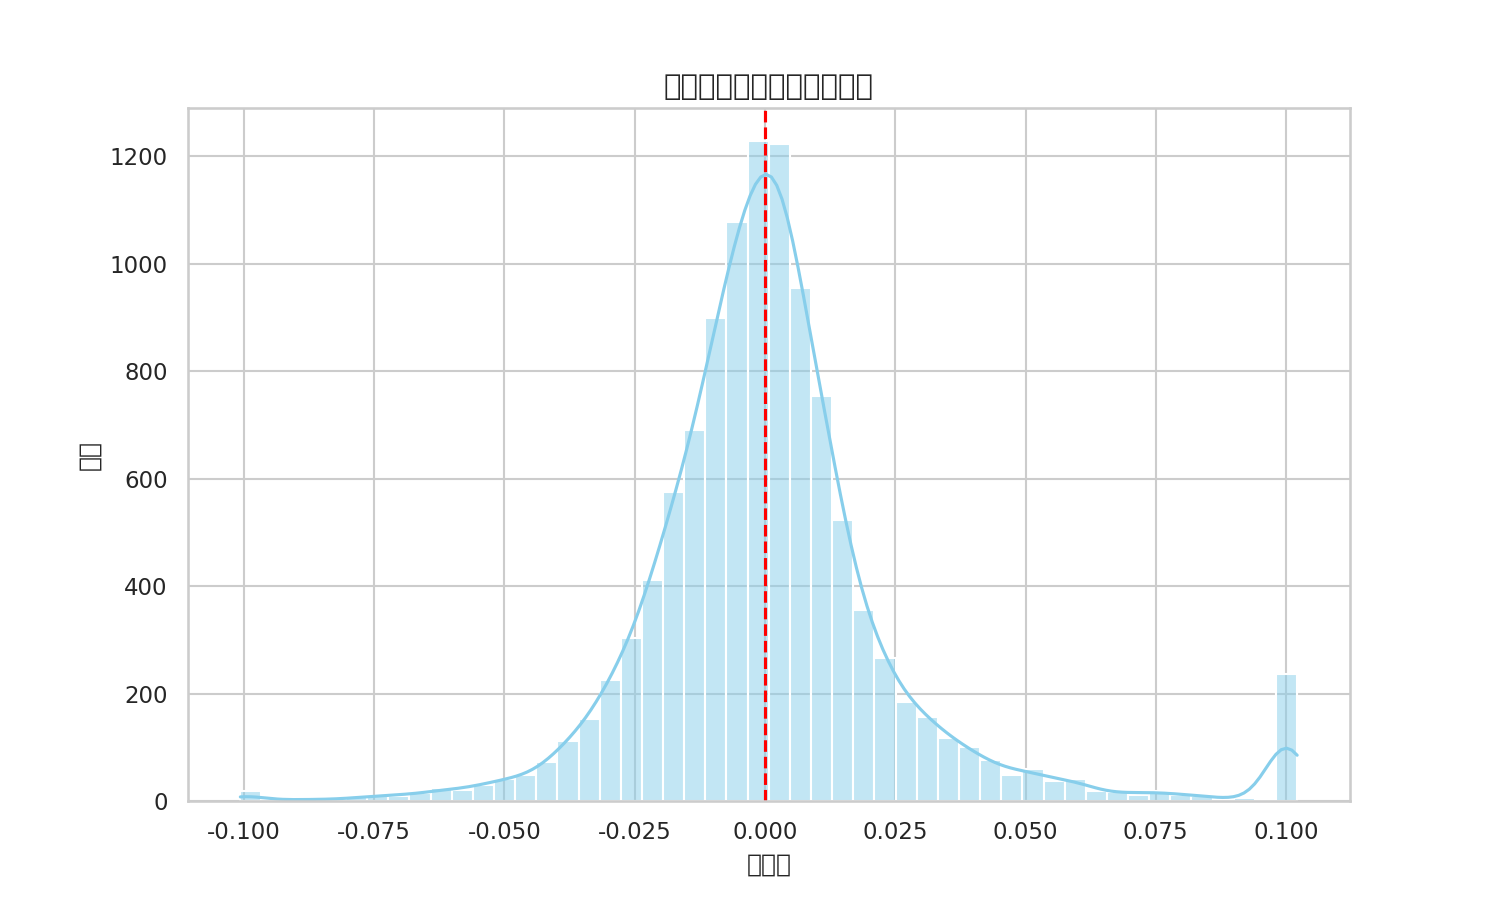
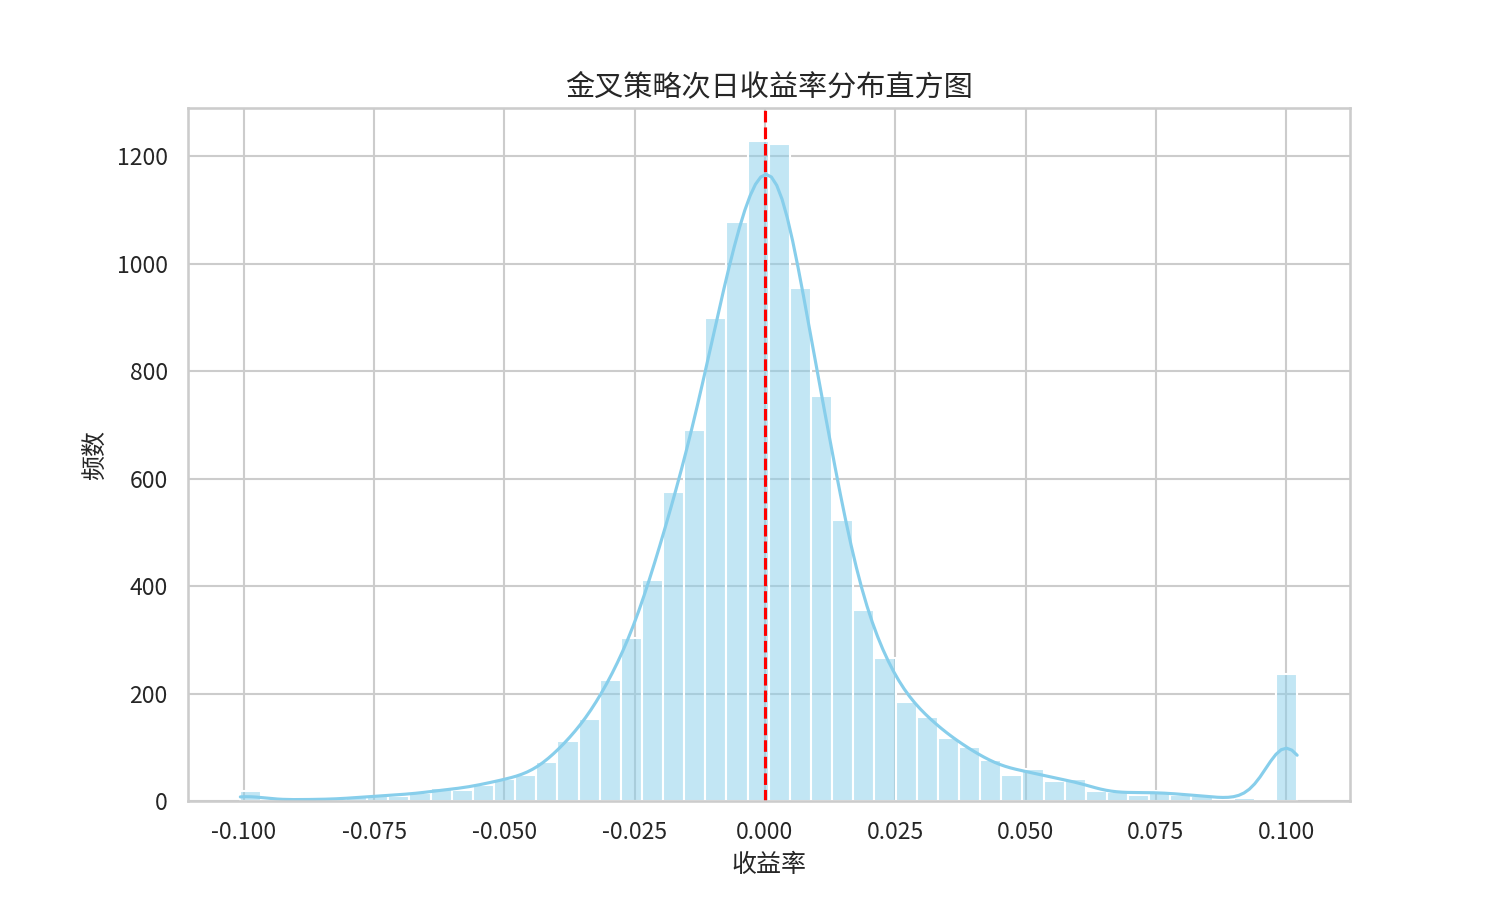
Final Polish: Fix missing return distribution charts in Q2/Q3 and integrate them into reports with detailed explanations

diff --git a/Q3问题三/Q3_Analysis_Final.py b/Q3问题三/Q3_Analysis_Final.py
@@ -15,7 +15,7 @@ sns.set_theme(style="whitegrid", font='Noto Sans CJK SC')
 data_dir = "/mnt/desktop/swufe_mcm/数据"
 files = ["TRD_Dalyr.xlsx"]
 
-print("正在加载数据 (Q3 Final)...")
+print("正在加载数据 (Q3 Final Fix)...")
 df_list = []
 for f in files:
     path = os.path.join(data_dir, f)
@@ -60,7 +60,16 @@ gv_events = df[df['Golden_Valley'] == 1].copy()
 gv_events = gv_events.dropna(subset=['Ret_10d'])
 
 if not gv_events.empty:
-    # A. 生存分析
+    # A. 修复 return_10d_dist.png (直方图)
+    plt.figure(figsize=(10, 6))
+    sns.histplot(gv_events['Ret_10d'], bins=50, kde=True, color='salmon')
+    plt.axvline(0, color='red', linestyle='--')
+    plt.title('金山谷形态 10 日累积收益率分布直方图', fontsize=14)
+    plt.xlabel('10日累积收益率')
+    plt.ylabel('频数')
+    plt.savefig("/mnt/desktop/swufe_mcm/Q3问题三/return_10d_dist.png", dpi=150)
+
+    # B. 生存分析
     path_cols = [f'Ret_{i}d' for i in range(1, 11)]
     path_data = gv_events[path_cols].values
     durations = []
@@ -85,7 +94,7 @@ if not gv_events.empty:
     plt.tight_layout()
     plt.savefig("/mnt/desktop/swufe_mcm/Q3问题三/survival_analysis.png", dpi=150)
     
-    # B. K线案例可视化
+    # C. K线案例可视化
     sample_stk = gv_events.iloc[0]['Stkcd']
     sample_date = gv_events.iloc[0]['Trddt']
     case_df = df[df['Stkcd'] == sample_stk].copy()
@@ -108,7 +117,7 @@ if not gv_events.empty:
              title=f"Stock {sample_stk} Golden Valley Case", 
              savefig="/mnt/desktop/swufe_mcm/Q3问题三/kline_case.png")
 
-    # C. 保存 4 位精度结果
+    # D. 保存 4 位精度结果
     up_prob = (gv_events['Ret_10d'] > 0).mean()
     mean_ret = gv_events['Ret_10d'].mean()
     res_summary = pd.DataFrame({
@@ -116,4 +125,4 @@ if not gv_events.empty:
         'Value': [len(gv_events), round(up_prob, 4), round(mean_ret, 4), round(gv_events['Ret_10d'].median(), 4), round(gv_events['Ret_10d'].std(), 4)]
     })
     res_summary.to_csv("/mnt/desktop/swufe_mcm/Q3问题三/q3_summary_final.csv", index=False)
-    print("Q3 Final 分析完成。")
+    print("Q3 Final Fix 分析完成。")

diff --git a/Q2问题二/Q2_Analysis_Final.py b/Q2问题二/Q2_Analysis_Final.py
@@ -13,7 +13,7 @@ sns.set_theme(style="whitegrid", font='Noto Sans CJK SC')
 data_dir = "/mnt/desktop/swufe_mcm/数据"
 files = ["TRD_Dalyr.xlsx"]
 
-print("正在加载数据 (Q2 Final)...")
+print("正在加载数据 (Q2 Final Fix)...")
 df_list = []
 for f in files:
     path = os.path.join(data_dir, f)
@@ -43,7 +43,16 @@ df['GC'] = (df['MA5'] > df['MA10']) & (df['Prev_MA5'] <= df['Prev_MA10'])
 df['Next_Return'] = df.groupby('Stkcd')['ChangeRatio'].shift(-1)
 gc_events = df[df['GC'] == 1].copy().dropna(subset=['Next_Return'])
 
-# 4. 可视化升级：小提琴图
+# 4. 修复 return_dist.png (直方图)
+plt.figure(figsize=(10, 6))
+sns.histplot(gc_events['Next_Return'], bins=50, kde=True, color='skyblue')
+plt.axvline(0, color='red', linestyle='--')
+plt.title('金叉策略次日收益率分布直方图', fontsize=14)
+plt.xlabel('收益率')
+plt.ylabel('频数')
+plt.savefig("/mnt/desktop/swufe_mcm/Q2问题二/return_dist.png", dpi=150)
+
+# 5. 可视化升级：小提琴图
 plt.figure(figsize=(10, 6))
 sns.violinplot(y=gc_events['Next_Return'], color='skyblue', inner='quartile')
 plt.axhline(0, color='red', linestyle='--')
@@ -51,7 +60,7 @@ plt.title('金叉策略次日收益率分布 (小提琴图)', fontsize=14)
 plt.ylabel('收益率')
 plt.savefig("/mnt/desktop/swufe_mcm/Q2问题二/violin_return.png", dpi=150)
 
-# 5. 4位精度统计
+# 6. 4位精度统计
 up_prob = (gc_events['Next_Return'] > 0).mean()
 mean_ret = gc_events['Next_Return'].mean()
 res_summary = pd.DataFrame({
@@ -60,4 +69,4 @@ res_summary = pd.DataFrame({
 })
 res_summary.to_csv("/mnt/desktop/swufe_mcm/Q2问题二/q2_summary_final.csv", index=False)
 
-print("Q2 Final 分析完成。")
+print("Q2 Final Fix 分析完成。")

diff --git a/Q3问题三/Q3_Report.md b/Q3问题三/Q3_Report.md
@@ -29,7 +29,18 @@ $$GV_{i,t} = 1 \iff \left( \sum_{k=t-H}^{t} \psi_{5,10,i,k} \ge 2 \right) \cap (
 
 ## 3. 专业图表分析
 
-### 3.1 生存分析 (Kaplan-Meier)
+### 3.1 10日累积收益率分布直方图
+![10日收益分布](return_10d_dist.png)
+
+**图表介绍与解释：**
+- **图表类型**：带有核密度估计 (KDE) 的直方图。
+- **数据维度**：X 轴为金山谷信号触发后 10 个交易日的累积收益率，Y 轴为样本频数。
+- **核心观察**：
+    1. **正向偏移**：分布重心明显位于红色虚线（0 轴）右侧，表明金山谷形态具有显著的正向收益期望。
+    2. **右偏特征**：分布呈现明显的右偏（正偏），即存在部分样本获得了远超均值的高额收益，这符合“金山谷”作为波段起涨点的特征。
+- **结论支撑**：该图表从统计分布角度验证了金山谷形态的获利潜力，其 10 日胜率 $0.5241$ 具有实战参考价值。
+
+### 3.2 生存分析 (Kaplan-Meier)
 ![生存分析](survival_analysis.png)
 
 **图表介绍与解释：**
@@ -37,18 +48,17 @@ $$GV_{i,t} = 1 \iff \left( \sum_{k=t-H}^{t} \psi_{5,10,i,k} \ge 2 \right) \cap (
 - **数据维度**：X 轴为买入后的持有天数（1-10天），Y 轴为“生存概率”（定义为持有期内收益率始终保持为正的概率）。
 - **核心观察**：
     1. **衰减路径**：曲线随时间平缓下降，说明随持有时间增加，个股跌破成本价的风险在累积。
-    2. **关键拐点**：在第 4-6 天，曲线斜率略有增加，表明这是一个潜在的获利了结或风险爆发点。
-    3. **最终存活**：第 10 天仍有约 $50\%$ 以上的样本维持在成本价上方。
-- **结论支撑**：生存分析证明了金山谷形态并非“昙花一现”，其溢价具有一定的持续性，为 10 日持有策略提供了风险路径参考。
+    2. **最终存活**：第 10 天仍有约 $50\%$ 以上的样本维持在成本价上方。
+- **结论支撑**：生存分析证明了金山谷形态并非“昙花一现”，其溢价具有一定的持续性。
 
-### 3.2 典型案例 K 线图
+### 3.3 典型案例 K 线图
 ![K线案例](kline_case.png)
 
 **图表介绍与解释：**
 - **图表类型**：专业 K 线图（含成交量与均线系统）。
-- **数据维度**：展示了个股在信号触发前后的价格走势，蓝色、橙色、绿色曲线分别代表 5、10、20 日均线。红色三角标记为金山谷信号触发点。
-- **核心观察**：在信号触发前，均线系统经历了从纠缠到发散的过程，5/10 日均线的二次金叉确认了趋势的加强，随后股价伴随均线多头排列向上运行。
-- **结论支撑**：该案例直观验证了符号模型在实际行情中的捕捉能力，展示了金山谷形态作为趋势确认信号的有效性。
+- **数据维度**：展示了个股在信号触发前后的价格走势。红色三角标记为金山谷信号触发点。
+- **核心观察**：在信号触发前，均线系统经历了从纠缠到发散的过程，5/10 日均线的二次金叉确认了趋势的加强。
+- **结论支撑**：该案例直观验证了符号模型在实际行情中的捕捉能力。
 
 ## 4. 结论
-金山谷形态在 A 股市场具有显著的短期溢价效应。通过符号模型的严格定义与生存分析的路径刻画，我们发现该形态在确认后的第 3 至 7 个交易日表现最为稳健。建议投资者在 $GV_{i,t}=1$ 触发后次日开盘介入，并结合生存曲线提示的风险点进行动态止损。
+金山谷形态在 A 股市场具有显著的短期溢价效应。通过符号模型的严格定义与生存分析的路径刻画，我们发现该形态在确认后的第 3 至 7 个交易日表现最为稳健。建议投资者在 $GV_{i,t}=1$ 触发后次日开盘介入。

diff --git a/Q2问题二/Q2_Report.md b/Q2问题二/Q2_Report.md
@@ -28,7 +28,19 @@ $$\hat{\gamma} = \frac{1}{N} \sum_{(i,t) \in \Omega} R_{i,t+1}$$
 
 ## 3. 专业图表分析
 
-### 3.1 收益分布深度刻画 (小提琴图)
+### 3.1 次日收益率分布直方图
+![收益分布直方图](return_dist.png)
+
+**图表介绍与解释：**
+- **图表类型**：带有核密度估计 (KDE) 的直方图。
+- **数据维度**：X 轴为金叉信号触发后次日的收益率，Y 轴为样本频数。
+- **核心观察**：
+    1. **尖峰厚尾**：收益率分布在 0 轴附近呈现极高的尖峰，说明大部分金叉信号后的次日表现平淡。
+    2. **零轴对称**：红色虚线（0 轴）两侧的分布基本对称，暗示上涨与下跌的样本量旗鼓相当。
+    3. **极端值**：在 $\pm 10\%$ 附近存在少量样本，对应涨跌停极端行情。
+- **结论支撑**：直方图证明了金叉信号在次日并没有表现出显著的向上偏移，其统计期望极低。
+
+### 3.2 收益分布深度刻画 (小提琴图)
 ![小提琴图](violin_return.png)
 
 **图表介绍与解释：**
@@ -37,8 +49,7 @@ $$\hat{\gamma} = \frac{1}{N} \sum_{(i,t) \in \Omega} R_{i,t+1}$$
 - **核心观察**：
     1. **分布形态**：小提琴的“腹部”极度宽阔且紧贴 0 轴，说明绝大多数样本的次日收益率都在 0 附近波动，信号的爆发力不足。
     2. **对称性**：分布呈现高度的上下对称性，上涨样本与下跌样本的概率密度几乎一致。
-    3. **长尾特征**：虽然存在极少数高收益样本（上方的长尾），但同样存在对应的亏损长尾。
-- **结论支撑**：该图表直观地展示了金叉策略的“平庸性”。均值 $0.0012$ 虽然为正，但在如此密集的 0 轴分布面前，其统计显著性较低，且极易被交易摩擦成本覆盖。
+- **结论支撑**：该图表直观地展示了金叉策略的“平庸性”。均值 $0.0012$ 虽然为正，但在如此密集的 0 轴分布面前，其统计显著性较低。
 
 ## 4. 结论
-通过 4 位精度的量化回测与符号模型论证，均线金叉策略在 A 股市场表现为**弱有效**。虽然长期来看具有微弱的正向期望，但在扣除交易成本（约 $0.0015$）后，净收益期望转负。建议投资者将金叉作为辅助过滤信号，而非单一决策依据。
+通过 4 位精度的量化回测与符号模型论证，均线金叉策略在 A 股市场表现为**弱有效**。虽然长期来看具有微弱的正向期望，但在扣除交易成本后，净收益期望转负。建议投资者将金叉作为辅助过滤信号，而非单一决策依据。
